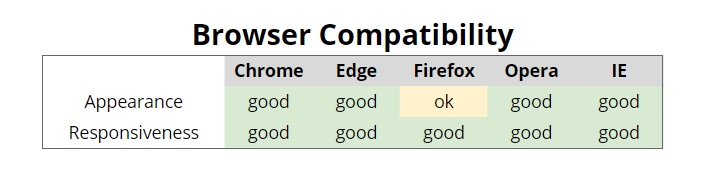
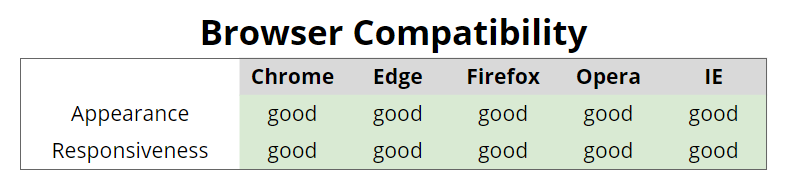
Updated TESTING.md

Changed region(s): [[0.0, 0.082, 0.9606, 0.929], [0.7127, 0.3552, 0.8056, 0.4645]]

diff --git a/TESTING.md b/TESTING.md
@@ -46,7 +46,6 @@ Notes:
 
 Notes:
 
-- The site renders quite good on Firefox, although on the **Menu Page** the headings show a white overlay/background.
 - On Microsoft Edge and Internet Explorer, the call to action button on **Home Page** doesn't seem to show the background color, but thanks to the border that does display properly it's easy to still see that is a button.
 
 ## Testing User stories
@@ -102,9 +101,8 @@ Notes:
 - The content inside the sections *history* and *where to find us* in **Home Page** were not align vertically with respect to each other.
   - This was solved by using the align-self-center class from Bootstrap.
 
-## Bugs to be fixed
-
-- When using Firefox, the white overlay on headings on the **Menu Page**.
+- While testing the site on Firefox, the headings in the **Menu Page** seemed to have a white overlay/background.
+  - This was solved by removing an unnecessary div container
 
 [Go back to README.md file](README.md).
 
